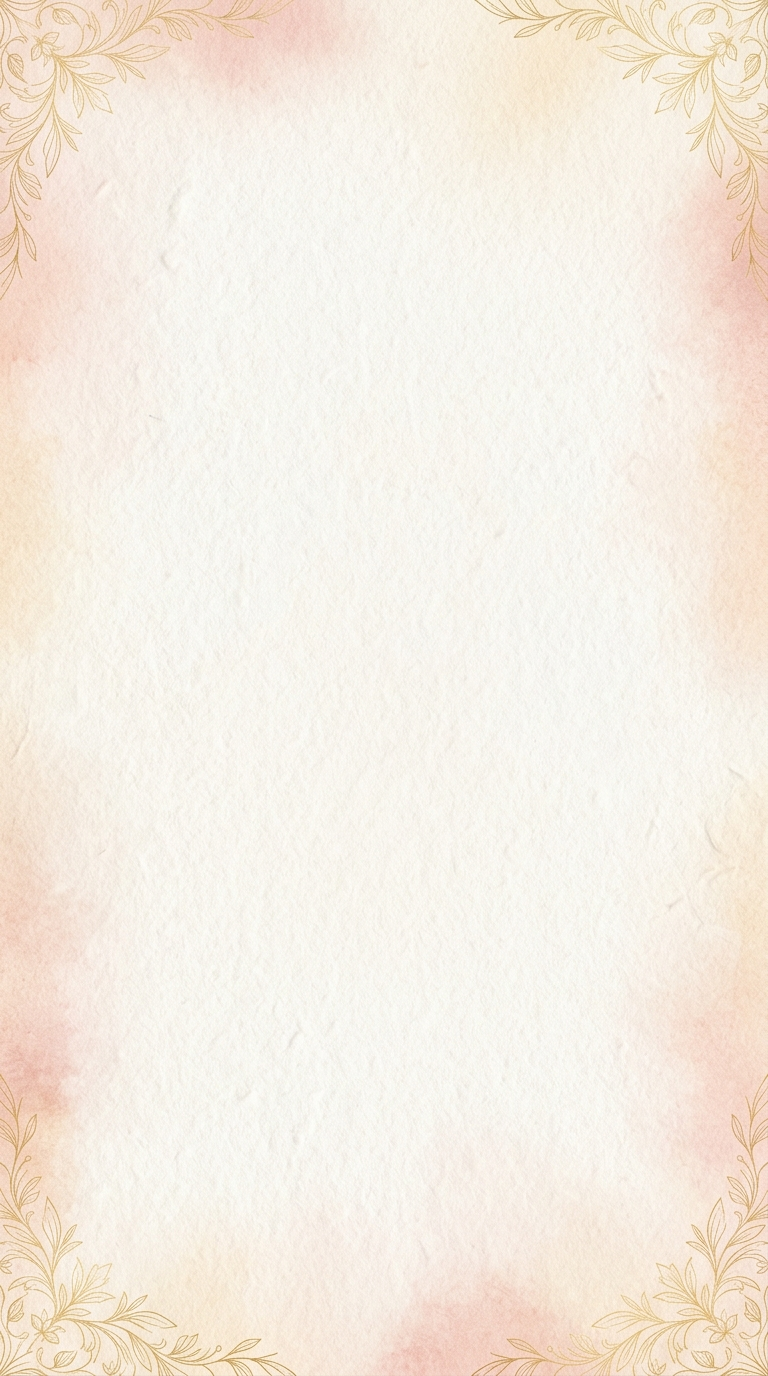
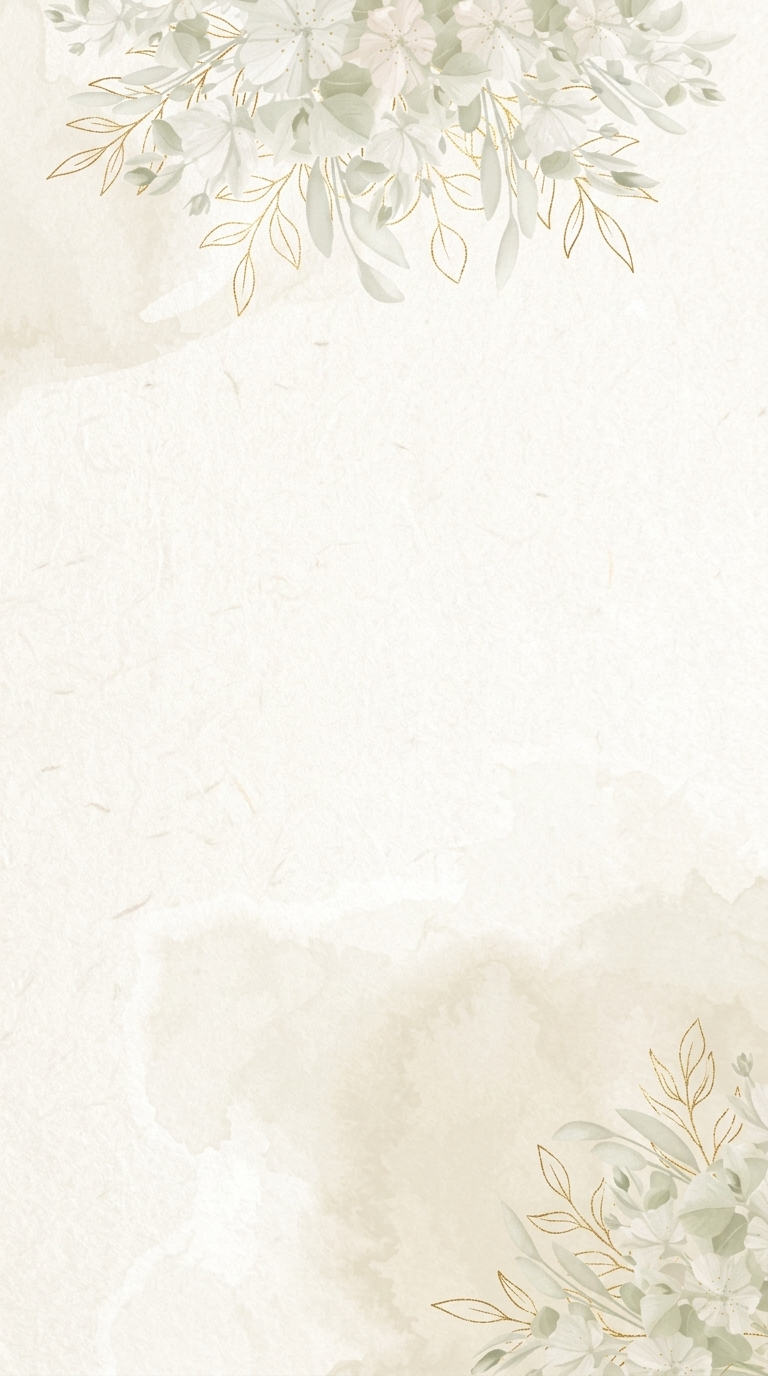
feat: seamless 9:16 portrait backgrounds, 3D gold sculptural monogram, centered wax seal opener, and royal Allura calligraphy typography

diff --git a/src/components/RoyalEnvelopeIntro.jsx b/src/components/RoyalEnvelopeIntro.jsx
@@ -28,7 +28,7 @@ export default function RoyalEnvelopeIntro({ onOpen }) {
 
       {/* Royal Physical Card Envelope Canvas */}
       <div 
-        className={`relative w-full max-w-sm sm:max-w-md rounded-3xl p-8 sm:p-10 text-center shadow-2xl border border-gold-hairline/50 bg-[#FAF6F0] text-ink-plum overflow-hidden transition-transform duration-1000 ${
+        className={`relative w-full max-w-sm sm:max-w-md max-h-[92dvh] rounded-3xl p-6 sm:p-10 text-center shadow-2xl border border-gold-hairline/50 bg-[#FAF6F0] text-ink-plum overflow-hidden flex flex-col items-center justify-between transition-transform duration-1000 ${
           isOpening ? 'scale-105 -translate-y-4' : 'scale-100'
         }`}
       >
@@ -39,65 +39,79 @@ export default function RoyalEnvelopeIntro({ onOpen }) {
         <div className="absolute bottom-3.5 right-3.5 w-6 h-6 border-b border-r border-gold-hairline/80"></div>
 
         {/* Envelope Flap Accent Lines */}
-        <div className="absolute top-0 left-0 right-0 h-14 pointer-events-none opacity-20">
+        <div className="absolute top-0 left-0 right-0 h-16 pointer-events-none opacity-20">
           <svg viewBox="0 0 400 70" className="w-full h-full" preserveAspectRatio="none">
             <path d="M0 0 L200 70 L400 0" fill="none" stroke="#C9A66B" strokeWidth="0.8" />
           </svg>
         </div>
 
-        {/* Bismillah Header */}
-        <div 
-          dir="rtl" 
-          lang="ar" 
-          className="font-arabic text-xl sm:text-2xl text-ink-plum/90 mb-3 select-all"
-        >
-          بِسْمِ اللَّهِ الرَّحْمَٰنِ الرَّحِيمِ
+        {/* Top Content Group */}
+        <div className="w-full flex flex-col items-center">
+          {/* Bismillah Header */}
+          <div 
+            dir="rtl" 
+            lang="ar" 
+            className="font-arabic text-xl sm:text-2xl text-ink-plum/90 mb-2 select-all"
+          >
+            بِسْمِ اللَّهِ الرَّحْمَٰنِ الرَّحِيمِ
+          </div>
+
+          <p className="text-[10px] font-sans tracking-[0.25em] uppercase text-terracotta-dark font-semibold mb-1">
+            Wedding Invitation
+          </p>
+
+          {/* Primary Couple Name in Royal Calligraphy Script */}
+          <h1 className="font-calligraphy not-italic text-5xl sm:text-6xl text-warm-espresso mb-1 tracking-normal font-normal drop-shadow-sm">
+            Naqiyah &amp; Abbas
+          </h1>
+
+          <p className="font-serif italic text-[11px] sm:text-sm text-warm-bronze/85 max-w-xs mx-auto mb-4 leading-relaxed whitespace-nowrap">
+            Two families · Two hearts · One beautiful beginning
+          </p>
         </div>
 
-        <p className="text-[10px] font-sans tracking-[0.25em] uppercase text-terracotta-dark font-semibold mb-1.5">
-          Wedding Invitation
-        </p>
+        {/* Center Clasp: Royal Wax Seal Medallion with New 3D Sculptural Monogram (NO 2026) */}
+        <div className="my-2 sm:my-3 relative flex flex-col items-center justify-center">
+          {/* Subtle Golden Ribbon Flap Behind Seal */}
+          <div className="absolute top-1/2 left-1/2 -translate-x-1/2 -translate-y-1/2 w-48 sm:w-56 h-0.5 bg-gradient-to-r from-transparent via-gold-hairline/70 to-transparent pointer-events-none"></div>
 
-        <h1 className="font-calligraphy italic text-4xl sm:text-5xl text-warm-espresso mb-2 tracking-wide font-normal">
-          Naqiyah &amp; Abbas
-        </h1>
-
-        <p className="font-serif italic text-[11px] sm:text-sm text-warm-bronze/85 max-w-xs mx-auto mb-5 leading-relaxed whitespace-nowrap">
-          Two families · Two hearts · One beautiful beginning
-        </p>
-
-        {/* Bespoke Royal Wax Seal Medallion with Client Monogram (NO 2026) */}
-        <div className="my-4 relative flex justify-center">
           <button
             onClick={handleOpen}
-            className={`group relative p-1 rounded-full transition-transform duration-500 hover:scale-105 active:scale-95 cursor-pointer focus:outline-none ${
+            className={`group relative p-1.5 rounded-full transition-all duration-500 hover:scale-105 active:scale-95 cursor-pointer focus:outline-none ${
               isOpening ? 'scale-125 opacity-0' : 'animate-gentle-pulse'
             }`}
             aria-label="Open Invitation"
           >
+            {/* Outer Subtle Golden Aura Glow */}
+            <div className="absolute -inset-1.5 rounded-full bg-gold-hairline/25 blur-sm group-hover:bg-gold-hairline/40 transition-colors pointer-events-none"></div>
+
             {/* Photorealistic Royal Wax Medallion */}
-            <div className="relative w-20 h-20 sm:w-22 sm:h-22 rounded-full flex items-center justify-center shadow-xl border border-gold-bright/30 bg-gradient-to-br from-[#A63628] via-[#85251B] to-[#5C1610] p-3">
+            <div className="relative w-20 h-20 sm:w-24 sm:h-24 rounded-full flex items-center justify-center shadow-2xl border border-gold-bright/40 bg-gradient-to-br from-[#A63628] via-[#85251B] to-[#5C1610] p-2.5">
               {/* Inner gold embossed ring */}
               <div className="absolute inset-1.5 rounded-full border border-dashed border-gold-bright/60 pointer-events-none"></div>
               <div className="absolute inset-2.5 rounded-full border border-gold-hairline/40 pointer-events-none"></div>
               
-              {/* Client's exact interlocking N&A monogram */}
+              {/* Bespoke 3D Gold & Rose Gold Sculptural Monogram */}
               <img 
-                src="/images/na_monogram_gold.png" 
+                src="/images/na_monogram_luxury.png" 
                 alt="Naqiyah & Abbas Monogram" 
-                className="w-12 h-10 object-contain filter drop-shadow-[0_1px_2px_rgba(0,0,0,0.4)] transition-transform duration-300 group-hover:scale-105"
+                className="w-14 h-12 sm:w-16 sm:h-14 object-contain filter drop-shadow-[0_2px_4px_rgba(0,0,0,0.5)] transition-transform duration-300 group-hover:scale-105"
               />
             </div>
           </button>
+
+          <span className="text-[9px] font-sans tracking-[0.2em] uppercase text-gold-burnished font-medium mt-1.5 opacity-90 animate-pulse">
+            Tap Seal to Open
+          </span>
         </div>
 
-        {/* Action Prompt */}
-        <div className="space-y-3 pt-1">
+        {/* Centered Action Prompt Button */}
+        <div className="w-full flex flex-col items-center space-y-2 pt-2">
           <button
             onClick={handleOpen}
-            className="inline-flex items-center gap-2 px-7 py-2.5 rounded-full bg-warm-espresso text-gold-bright text-xs font-medium tracking-widest uppercase shadow-md hover:bg-warm-dark transition-all active:scale-95 cursor-pointer border border-gold-hairline/40"
+            className="inline-flex items-center justify-center gap-2 px-8 py-2.5 sm:py-3 rounded-full bg-gradient-to-r from-warm-espresso via-[#4C382A] to-warm-espresso text-gold-bright text-[11px] sm:text-xs font-medium tracking-[0.2em] uppercase shadow-lg hover:shadow-xl hover:scale-105 active:scale-95 transition-all cursor-pointer border border-gold-hairline/50"
           >
-            <span>Open Invitation</span>
+            <span>✦ Open Invitation ✦</span>
           </button>
 
           <p className="text-[10px] font-sans text-warm-bronze/70 tracking-wider">

diff --git a/src/components/MinimalFloralBackground.jsx b/src/components/MinimalFloralBackground.jsx
@@ -1,24 +1,21 @@
 import React from 'react';
-import { motion, useScroll, useTransform, AnimatePresence } from 'framer-motion';
+import { motion, AnimatePresence } from 'framer-motion';
 
 /**
- * MinimalFloralBackground — Multiphase Atmospheric Canvas (MotionSites.ai Architecture)
- * Seamlessly cross-fades between high-resolution bespoke generated watercolor environments
+ * MinimalFloralBackground — Seamless Multiphase Atmospheric Canvas (MotionSites.ai Architecture)
+ * Flawlessly cross-fades between high-resolution bespoke generated 9:16 watercolor environments
  * representing the narrative phases: Dawn Rose, Sunlit Poolside Garden, and Royal Midnight Starlight.
+ * 
+ * Specifically engineered for mobile viewports (100dvh) with zero clipping, zero white boxes,
+ * and zero jagged cutoffs.
  */
 export default function MinimalFloralBackground({ lightStage = 'dawn' }) {
-  const { scrollYProgress } = useScroll();
-
-  // Gentle organic parallax translation
-  const topGarlandY = useTransform(scrollYProgress, [0, 1], [0, -40]);
-  const bottomFloralY = useTransform(scrollYProgress, [0, 1], [0, -60]);
-  const bgScale = useTransform(scrollYProgress, [0, 1], [1, 1.04]);
-
   // Determine current active background image
   const getPhaseImage = () => {
     switch (lightStage) {
       case 'midday':
       case 'celebration':
+      case 'celebration-of-love':
         return '/images/bg_phase_garden.jpg';
       case 'reception':
       case 'verse':
@@ -31,90 +28,49 @@ export default function MinimalFloralBackground({ lightStage = 'dawn' }) {
   };
 
   const isDarkPhase = lightStage === 'reception' || lightStage === 'verse';
+  const activeSrc = getPhaseImage();
 
   return (
     <div 
       aria-hidden="true" 
-      className="fixed inset-0 pointer-events-none -z-10 overflow-hidden select-none transition-colors duration-1000"
+      className="fixed inset-0 w-full h-[100dvh] pointer-events-none -z-20 overflow-hidden select-none"
     >
       {/* 1. Multiphase Atmospheric Wallpaper Crossfade */}
-      <AnimatePresence mode="sync">
+      <AnimatePresence mode="popLayout">
         <motion.div 
-          key={getPhaseImage()}
+          key={activeSrc}
           initial={{ opacity: 0 }}
-          animate={{ opacity: isDarkPhase ? 0.95 : 0.85 }}
+          animate={{ opacity: isDarkPhase ? 0.96 : 0.88 }}
           exit={{ opacity: 0 }}
-          transition={{ duration: 1.4, ease: [0.16, 1, 0.3, 1] }}
-          style={{ scale: bgScale }}
-          className="absolute inset-0 bg-cover bg-center"
+          transition={{ duration: 1.2, ease: [0.22, 1, 0.36, 1] }}
+          className="absolute inset-0 w-full h-full"
         >
           <img 
-            src={getPhaseImage()} 
+            src={activeSrc} 
             alt="" 
-            className={`w-full h-full object-cover object-center transition-all duration-1000 ${
-              isDarkPhase ? 'brightness-105 contrast-105' : 'filter saturate-95 contrast-100'
+            className={`w-full h-full object-cover object-top sm:object-center transition-all duration-1000 ${
+              isDarkPhase ? 'brightness-105 contrast-105' : 'filter saturate-100 contrast-100'
             }`}
             loading="eager"
           />
         </motion.div>
       </AnimatePresence>
 
-      {/* 2. Top Arching Floral Garland */}
-      <motion.div 
-        style={{ y: topGarlandY }}
-        animate={{ 
-          rotate: [-0.3, 0.3, -0.3],
-          transition: { duration: 14, repeat: Infinity, ease: 'easeInOut' }
-        }}
-        className={`absolute -top-4 sm:-top-6 left-1/2 -translate-x-1/2 w-full max-w-2xl sm:max-w-3xl pointer-events-none transition-opacity duration-1000 ${
-          isDarkPhase ? 'opacity-35 mix-blend-screen' : 'opacity-85 mix-blend-multiply'
+      {/* 2. Delicate Luxury Ambient Vignette (ensures flawless card contrast on all mobile screens) */}
+      <div 
+        className={`absolute inset-0 transition-opacity duration-1000 pointer-events-none ${
+          isDarkPhase 
+            ? 'bg-gradient-to-b from-[#1E141C]/40 via-transparent to-[#160E15]/60' 
+            : 'bg-gradient-to-b from-[#FAF6F0]/30 via-transparent to-[#F4EDE1]/40'
         }`}
-      >
-        <img 
-          src="/images/floral_garland_trans.png" 
-          alt="" 
-          className="w-full h-auto object-contain mx-auto filter saturate-90 contrast-95"
-          loading="eager"
-        />
-      </motion.div>
+      />
 
-      {/* 3. Bottom Right Floral Corner Accent */}
-      <motion.div 
-        style={{ y: bottomFloralY }}
-        animate={{ 
-          rotate: [0.4, -0.4, 0.4],
-          transition: { duration: 16, repeat: Infinity, ease: 'easeInOut' }
-        }}
-        className={`absolute -bottom-8 -right-8 sm:-bottom-10 sm:-right-10 w-64 sm:w-80 pointer-events-none transition-opacity duration-1000 ${
-          isDarkPhase ? 'opacity-25 mix-blend-screen' : 'opacity-70 mix-blend-multiply'
-        }`}
-      >
-        <img 
-          src="/images/floral_corner_trans.png" 
-          alt="" 
-          className="w-full h-auto object-contain filter saturate-90 contrast-95"
-          loading="lazy"
-        />
-      </motion.div>
-
-      {/* 4. Bottom Left Floral Corner Accent (Mirrored) */}
-      <motion.div 
-        style={{ y: bottomFloralY }}
-        animate={{ 
-          rotate: [-0.4, 0.4, -0.4],
-          transition: { duration: 17, repeat: Infinity, ease: 'easeInOut' }
-        }}
-        className={`absolute -bottom-8 -left-8 sm:-bottom-10 sm:-left-10 w-64 sm:w-80 -scale-x-100 pointer-events-none transition-opacity duration-1000 ${
-          isDarkPhase ? 'opacity-25 mix-blend-screen' : 'opacity-60 mix-blend-multiply'
-        }`}
-      >
-        <img 
-          src="/images/floral_corner_trans.png" 
-          alt="" 
-          className="w-full h-auto object-contain filter saturate-85 contrast-95"
-          loading="lazy"
-        />
-      </motion.div>
+      {/* 3. Preload all phase wallpapers for instantaneous zero-latency transitions */}
+      <div className="hidden" aria-hidden="true">
+        <img src="/images/bg_phase_dawn.jpg" alt="" />
+        <img src="/images/bg_phase_garden.jpg" alt="" />
+        <img src="/images/bg_phase_midnight.jpg" alt="" />
+      </div>
     </div>
   );
 }

diff --git a/src/components/HeroSection.jsx b/src/components/HeroSection.jsx
@@ -33,7 +33,7 @@ export default function HeroSection({ onOpenKeepsake }) {
           {/* Subtle warm halo */}
           <div className="absolute inset-0 bg-gold-hairline/25 rounded-full blur-xl scale-75 animate-pulse"></div>
           <img 
-            src="/images/na_monogram.png" 
+            src="/images/na_monogram_luxury.png" 
             alt="Naqiyah & Abbas Monogram"
             className="w-full h-full object-contain filter drop-shadow-[0_8px_20px_rgba(201,166,107,0.35)] transition-transform duration-300"
           />
@@ -48,21 +48,21 @@ export default function HeroSection({ onOpenKeepsake }) {
         className="w-full max-w-lg mx-auto flex flex-col items-center justify-center"
       >
         {/* Bride Name: Naqiyah */}
-        <h1 className="font-calligraphy italic text-6xl sm:text-8xl md:text-9xl tracking-normal text-warm-espresso font-normal select-none leading-[1.1] drop-shadow-sm">
+        <h1 className="font-calligraphy not-italic text-6xl sm:text-8xl md:text-9xl tracking-normal text-warm-espresso font-normal select-none leading-[1.1] drop-shadow-sm">
           Naqiyah
         </h1>
 
         {/* Minimalist, exquisite calligraphic gold ampersand */}
         <div className="my-1 sm:my-2 flex items-center justify-center gap-3">
           <span className="h-px w-12 sm:w-20 bg-gradient-to-r from-transparent via-gold-hairline/60 to-gold-hairline"></span>
-          <span className="font-calligraphy italic text-3xl sm:text-4xl text-gold-burnished font-normal px-2">
+          <span className="font-calligraphy not-italic text-4xl sm:text-5xl text-gold-burnished font-normal px-2">
             &amp;
           </span>
           <span className="h-px w-12 sm:w-20 bg-gradient-to-l from-transparent via-gold-hairline/60 to-gold-hairline"></span>
         </div>
 
         {/* Groom Name: Abbas */}
-        <h1 className="font-calligraphy italic text-6xl sm:text-8xl md:text-9xl tracking-normal text-warm-espresso font-normal select-none leading-[1.1] drop-shadow-sm">
+        <h1 className="font-calligraphy not-italic text-6xl sm:text-8xl md:text-9xl tracking-normal text-warm-espresso font-normal select-none leading-[1.1] drop-shadow-sm">
           Abbas
         </h1>
       </motion.div>

diff --git a/src/components/LineageSection.jsx b/src/components/LineageSection.jsx
@@ -49,7 +49,7 @@ export default function LineageSection() {
           transition={{ duration: 0.75, ease: [0.16, 1, 0.3, 1] }}
           className="w-full p-6 sm:p-7 rounded-2xl bg-white/90 border border-gold-hairline/40 shadow-lg backdrop-blur-md"
         >
-          <h3 className="font-calligraphy italic text-4xl sm:text-5xl text-warm-espresso mb-1 font-normal">
+          <h3 className="font-calligraphy not-italic text-5xl sm:text-6xl text-warm-espresso mb-1 font-normal">
             Naqiyah
           </h3>
           <p className="font-serif italic text-sm sm:text-base text-warm-bronze/90">
@@ -60,7 +60,7 @@ export default function LineageSection() {
         {/* The 'weds' ligature verbatim from card */}
         <div className="my-1 flex items-center justify-center gap-3">
           <span className="h-px w-12 bg-gold-hairline/40"></span>
-          <span className="font-calligraphy italic text-3xl text-gold-burnished font-normal px-2">
+          <span className="font-calligraphy not-italic text-4xl text-gold-burnished font-normal px-2">
             weds
           </span>
           <span className="h-px w-12 bg-gold-hairline/40"></span>
@@ -74,7 +74,7 @@ export default function LineageSection() {
           transition={{ duration: 0.75, ease: [0.16, 1, 0.3, 1] }}
           className="w-full p-6 sm:p-7 rounded-2xl bg-white/90 border border-gold-hairline/40 shadow-lg backdrop-blur-md"
         >
-          <h3 className="font-calligraphy italic text-4xl sm:text-5xl text-warm-espresso mb-1 font-normal">
+          <h3 className="font-calligraphy not-italic text-5xl sm:text-6xl text-warm-espresso mb-1 font-normal">
             Abbas
           </h3>
           <p className="font-serif italic text-sm sm:text-base text-warm-bronze/90">

diff --git a/index.html b/index.html
@@ -19,10 +19,10 @@
     
     <title>Naqiyah & Abbas — Wedding Celebrations · 18–19 Dec 2026</title>
     
-    <!-- Google Fonts: Cormorant Garamond, Fraunces, Plus Jakarta Sans, Amiri, Pinyon Script, Alex Brush, Great Vibes -->
+    <!-- Google Fonts: Cormorant Garamond, Fraunces, Plus Jakarta Sans, Amiri, Allura, Alex Brush, Great Vibes, Italianno -->
     <link rel="preconnect" href="https://fonts.googleapis.com">
     <link rel="preconnect" href="https://fonts.gstatic.com" crossorigin>
-    <link href="https://fonts.googleapis.com/css2?family=Alex+Brush&family=Amiri:ital,wght@0,400;0,700;1,400&family=Cormorant+Garamond:ital,wght@0,300;0,400;0,500;0,600;0,700;1,300;1,400;1,600&family=Fraunces:ital,opsz,wght@0,9..144,300;0,9..144,400;0,9..144,500;1,9..144,300;1,9..144,400&family=Great+Vibes&family=Pinyon+Script&family=Plus+Jakarta+Sans:wght@300;400;500;600;700&display=swap" rel="stylesheet">
+    <link href="https://fonts.googleapis.com/css2?family=Alex+Brush&family=Allura&family=Amiri:ital,wght@0,400;0,700;1,400&family=Cormorant+Garamond:ital,wght@0,300;0,400;0,500;0,600;0,700;1,300;1,400;1,600&family=Fraunces:ital,opsz,wght@0,9..144,300;0,9..144,400;0,9..144,500;1,9..144,300;1,9..144,400&family=Great+Vibes&family=Italianno&family=Plus+Jakarta+Sans:wght@300;400;500;600;700&display=swap" rel="stylesheet">
   </head>
   <body class="bg-ivory text-ink-plum antialiased selection:bg-rose-dust selection:text-ink-deep min-h-screen overflow-x-hidden font-body">
     <div id="root"></div>

diff --git a/src/components/KeepsakeModal.jsx b/src/components/KeepsakeModal.jsx
@@ -99,7 +99,7 @@ export default function KeepsakeModal({ isOpen, onClose }) {
         {/* Monogram */}
         <div className="my-2 flex justify-center">
           <img 
-            src="/images/na_monogram.png" 
+            src="/images/na_monogram_luxury.png" 
             alt="Naqiyah & Abbas Monogram" 
             className="w-16 h-14 object-contain filter drop-shadow-sm"
           />
@@ -107,7 +107,7 @@ export default function KeepsakeModal({ isOpen, onClose }) {
 
         {/* Couple Names in Calligraphy Italic Script */}
         <div className="space-y-0.5 my-2">
-          <h2 className="font-calligraphy italic text-4xl sm:text-5xl text-warm-espresso font-normal leading-tight">
+          <h2 className="font-calligraphy not-italic text-5xl sm:text-6xl text-warm-espresso font-normal leading-tight">
             Naqiyah &amp; Abbas
           </h2>
           <p className="text-[10px] sm:text-xs font-sans tracking-widest uppercase text-warm-bronze font-medium">

diff --git a/tailwind.config.js b/tailwind.config.js
@@ -63,8 +63,8 @@ export default {
       fontFamily: {
         serif: ['Cormorant Garamond', 'Fraunces', 'serif'],
         display: ['Cormorant Garamond', 'serif'],
-        calligraphy: ['"Pinyon Script"', '"Alex Brush"', '"Great Vibes"', 'cursive'],
-        script: ['"Alex Brush"', '"Pinyon Script"', 'cursive'],
+        calligraphy: ['"Allura"', '"Alex Brush"', '"Great Vibes"', 'cursive'],
+        script: ['"Alex Brush"', '"Allura"', '"Great Vibes"', 'cursive'],
         body: ['Plus Jakarta Sans', 'Inter', 'sans-serif'],
         arabic: ['Amiri', 'Noto Naskh Arabic', 'serif'],
       },

diff --git a/src/components/ClosingSection.jsx b/src/components/ClosingSection.jsx
@@ -34,7 +34,7 @@ export default function ClosingSection() {
         </p>
         <div className="flex items-center justify-center gap-2 pt-2 text-gold-hairline">
           <span className="text-xs">✦</span>
-          <span className="font-calligraphy italic text-2xl text-gold-burnished px-1">Naqiyah &amp; Abbas</span>
+          <span className="font-calligraphy not-italic text-3xl text-gold-burnished px-1">Naqiyah &amp; Abbas</span>
           <span className="text-xs">✦</span>
         </div>
       </div>

diff --git a/src/components/AmbientLightCanvas.jsx b/src/components/AmbientLightCanvas.jsx
@@ -66,7 +66,7 @@ export default function AmbientLightCanvas({ lightStage }) {
   }, []);
 
   return (
-    <div className="fixed inset-0 pointer-events-none -z-20 overflow-hidden">
+    <div className="fixed inset-0 pointer-events-none -z-30 overflow-hidden">
       {/* 1. Dawn Ivory & Soft Blush */}
       <div 
         className="absolute inset-0 transition-opacity duration-1800 ease-out"
